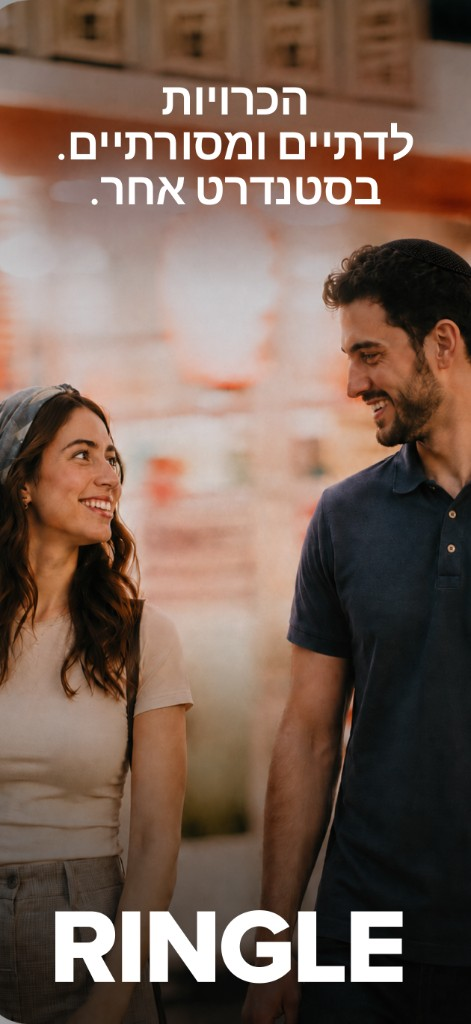
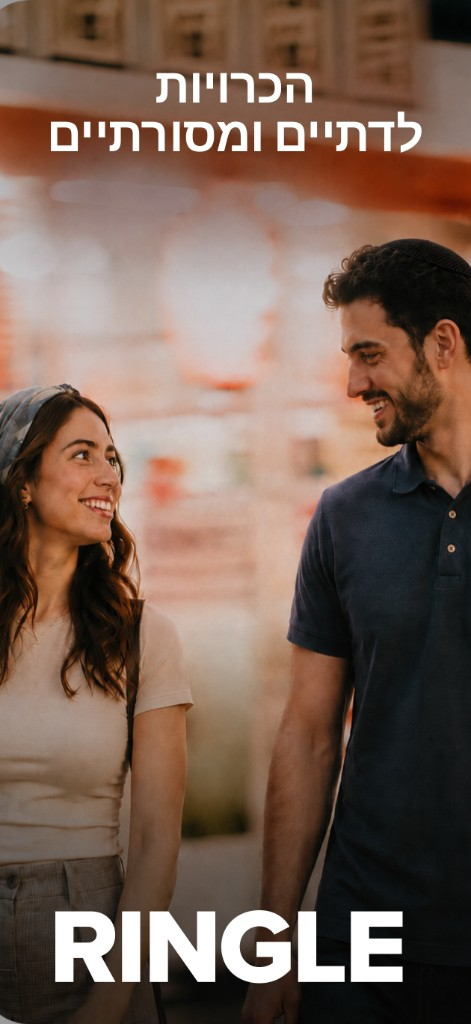
wip

Changed region(s): [[0.0892, 0.0625, 0.8917, 0.2188]]

diff --git a/src/App.jsx b/src/App.jsx
@@ -312,7 +312,9 @@ export default function App() {
 
         <section className="manifesto" aria-label={t.standards}>
           <div className="wrap">
-            <p>{t.manifesto}</p>
+            {(Array.isArray(t.manifesto) ? t.manifesto : [t.manifesto]).map((paragraph) => (
+              <p key={paragraph}>{paragraph}</p>
+            ))}
           </div>
         </section>
 
@@ -326,6 +328,72 @@ export default function App() {
                   <img src={photo.src} alt={photo.alt} width="160" height="160" />
                 </span>
               ))}
+            </div>
+          </div>
+        </section>
+
+        <section className="stories" id="stories">
+          <div className="wrap">
+            <h2>{t.stories.title}</h2>
+            {t.stories.sub ? <p className="sub">{t.stories.sub}</p> : null}
+            <div className="gallery">
+              <div className="gallery-arrows">
+                <button type="button" aria-label={t.stories.prev} onClick={() => stepGallery(-1)}>
+                  <Chevron direction="up" />
+                </button>
+                <button type="button" aria-label={t.stories.next} onClick={() => stepGallery(1)}>
+                  <Chevron direction="down" />
+                </button>
+              </div>
+              <div className="gallery-list" role="tablist" aria-label={t.stories.title} ref={listRef}>
+                {t.couples.map((photo, index) => {
+                  const selected = index === gallery;
+                  if (selected) {
+                    return (
+                      <div key={photo.id} className="feature" role="tab" aria-selected="true">
+                        <button type="button" className="feature-name" onClick={() => setGallery(index)}>
+                          <span className="pill-mark" aria-hidden="true" />
+                          {photo.title}
+                        </button>
+                        <p className="feature-body">{photo.body}</p>
+                        <a className="feature-post" href={photo.post} target="_blank" rel="noreferrer">
+                          {t.stories.post}
+                        </a>
+                      </div>
+                    );
+                  }
+                  return (
+                    <button
+                      key={photo.id}
+                      type="button"
+                      role="tab"
+                      aria-selected="false"
+                      className="pill"
+                      onClick={() => setGallery(index)}
+                    >
+                      <span className="pill-mark" aria-hidden="true">
+                        <Plus />
+                      </span>
+                      {photo.title}
+                    </button>
+                  );
+                })}
+              </div>
+              <div className="gallery-frame">
+                <img
+                  key={t.couples[gallery].id}
+                  src={t.couples[gallery].src}
+                  alt={t.couples[gallery].alt}
+                  width="1000"
+                  height="1200"
+                />
+              </div>
+              <div className="gallery-detail">
+                <p>{t.couples[gallery].body}</p>
+                <a href={t.couples[gallery].post} target="_blank" rel="noreferrer">
+                  {t.stories.post}
+                </a>
+              </div>
             </div>
           </div>
         </section>
@@ -393,72 +461,6 @@ export default function App() {
               </div>
               <div className="gallery-detail">
                 <p>{t.screens[tour].body}</p>
-              </div>
-            </div>
-          </div>
-        </section>
-
-        <section className="stories" id="stories">
-          <div className="wrap">
-            <h2>{t.stories.title}</h2>
-            <p className="sub">{t.stories.sub}</p>
-            <div className="gallery">
-              <div className="gallery-arrows">
-                <button type="button" aria-label={t.stories.prev} onClick={() => stepGallery(-1)}>
-                  <Chevron direction="up" />
-                </button>
-                <button type="button" aria-label={t.stories.next} onClick={() => stepGallery(1)}>
-                  <Chevron direction="down" />
-                </button>
-              </div>
-              <div className="gallery-list" role="tablist" aria-label={t.stories.title} ref={listRef}>
-                {t.couples.map((photo, index) => {
-                  const selected = index === gallery;
-                  if (selected) {
-                    return (
-                      <div key={photo.id} className="feature" role="tab" aria-selected="true">
-                        <button type="button" className="feature-name" onClick={() => setGallery(index)}>
-                          <span className="pill-mark" aria-hidden="true" />
-                          {photo.title}
-                        </button>
-                        <p className="feature-body">{photo.body}</p>
-                        <a className="feature-post" href={photo.post} target="_blank" rel="noreferrer">
-                          {t.stories.post}
-                        </a>
-                      </div>
-                    );
-                  }
-                  return (
-                    <button
-                      key={photo.id}
-                      type="button"
-                      role="tab"
-                      aria-selected="false"
-                      className="pill"
-                      onClick={() => setGallery(index)}
-                    >
-                      <span className="pill-mark" aria-hidden="true">
-                        <Plus />
-                      </span>
-                      {photo.title}
-                    </button>
-                  );
-                })}
-              </div>
-              <div className="gallery-frame">
-                <img
-                  key={t.couples[gallery].id}
-                  src={t.couples[gallery].src}
-                  alt={t.couples[gallery].alt}
-                  width="1000"
-                  height="1200"
-                />
-              </div>
-              <div className="gallery-detail">
-                <p>{t.couples[gallery].body}</p>
-                <a href={t.couples[gallery].post} target="_blank" rel="noreferrer">
-                  {t.stories.post}
-                </a>
               </div>
             </div>
           </div>

diff --git a/src/content.js b/src/content.js
@@ -16,14 +16,14 @@ const appScreens = [
     src: file("photos/app/store-elevated.jpg"),
     he: {
       src: file("photos/app/store-elevated-he.jpg"),
-      alt: "זוג, עם הכיתוב הכרויות יהודיות ברמה גבוהה",
-      title: "ברמה גבוהה",
-      body: "הכרויות יהודיות, ברמה גבוהה.",
+      alt: "זוג, עם הכיתוב הכרויות לדתיים ומסורתיים",
+      title: "דתיים ומסורתיים",
+      body: "הכרויות לדתיים ומסורתיים",
     },
     en: {
-      alt: "A couple, with the line Jewish dating, elevated",
-      title: "Elevated",
-      body: "Jewish dating, elevated.",
+      alt: "A couple, with the line Dating for Religious & Traditional Jews",
+      title: "Religious Jews",
+      body: "Dating for Religious & Traditional Jews",
     },
   },
   {
@@ -407,10 +407,12 @@ export const copy = {
     hero: {
       l1: "רווקים",
       l2: "דתיים ומסורתיים",
-      l3: "עם סטנדרטים גבוהים",
     },
-    manifesto:
-      "כל טבעת גדולה מתחילה במציאת מישהו שראוי לבחור בו. זה הרעיון מאחורי רינגל. אפליקציית הכרויות ליהודים דתיים ומסורתיים - אנשים שיודעים מה הם מחפשים ומעריכים קשר משמעותי. כי למצוא את האדם הנכון מתחיל בלדעת מה חשוב לך.",
+    manifesto: [
+      "רינגל - אפליקציית ההיכרויות לדתיים ומסורתיים",
+      "אלפי זוגות כבר הכירו ברינגל, התאהבו ובנו יחד בית. יצרנו חוויית היכרות כיפית, איכותית ובטוחה, עם משתמשים מאומתים, מנגנוני הגנה וקהילה של דתיים ומסורתיים שבאמת רוצים להכיר.",
+      "כי בסוף, המטרה היא לא להישאר באפליקציה - אלא למצוא את האדם שאיתו תרצו לצעוד יחד לחופה.",
+    ],
     standards: "אנשים בסטנדרטים שלך",
     singles: singles.map((item) => ({ src: item.src, alt: item.he })),
     app: {
@@ -426,8 +428,8 @@ export const copy = {
       body: item.he.body,
     })),
     stories: {
-      title: "זה התחיל ברינגל",
-      sub: "אנשים ששווה להכיר",
+      title: "הזוגות שלנו",
+      sub: "",
       post: "לפוסט באינסטגרם",
       prev: "הזוג הקודם",
       next: "הזוג הבא",
@@ -476,7 +478,7 @@ export const copy = {
     },
     support: {
       eyebrow: "תמיכה",
-      title: "נשמח לשמוע.",
+      title: "נשמח לשמוע ממך",
       email: "support@ringledating.com",
       whatsapp: "וואטסאפ",
     },
@@ -518,8 +520,12 @@ export const copy = {
       l1: "for Jewish singles",
       l2: "with high standards.",
     },
-    manifesto:
-      "Every great ring starts with finding someone worth choosing. That's the idea behind Ringle. A dating app for religious and traditional Jews — people who know what they're looking for and value meaningful connections. Because finding the right person starts with knowing what matters to you.",
+    manifesto: [
+      "Ringle – Dating for Religious & Traditional Jews",
+      "Thousands of couples have already met on Ringle, fallen in love, and started building a life together.",
+      "We’ve created a fun, high-quality and safe dating experience, with verified profiles, advanced safety features, and a community of Religious and Traditional Jews who are genuinely looking for something real.",
+      "Because the goal isn’t to stay on a dating app - it’s to find the person you’ll build a home with and walk with under the chuppah.",
+    ],
     standards: "People at your standards",
     singles: singles.map((item) => ({ src: item.src, alt: item.en })),
     app: {

diff --git a/src/styles.css b/src/styles.css
@@ -238,10 +238,11 @@ html[lang="en"] .overlay button { font-family: var(--latin); }
 }
 
 .hero-inner {
+  --hero-gap: clamp(36px, 5vh, 64px);
   display: grid;
   justify-items: center;
   text-align: center;
-  gap: clamp(36px, 5vh, 64px);
+  gap: var(--hero-gap);
 }
 
 h1 {
@@ -259,7 +260,7 @@ h1 span { display: block; white-space: nowrap; }
   position: absolute;
   left: 18%;
   right: 18%;
-  bottom: -8px;
+  bottom: calc(var(--hero-gap) / -2);
   height: 1px;
   background: var(--blue);
   opacity: 0;
@@ -278,13 +279,15 @@ html[lang="en"] h1 {
 }
 
 .manifesto p {
-  max-width: 16em;
+  max-width: 18em;
   margin-inline: auto;
   color: var(--blue);
   font-size: clamp(28px, 3.5vw, 48px);
   line-height: 1.35;
   text-align: center;
 }
+
+.manifesto p + p { margin-top: 0.75em; }
 
 .standards {
   padding: clamp(88px, 11vw, 140px) 0;
